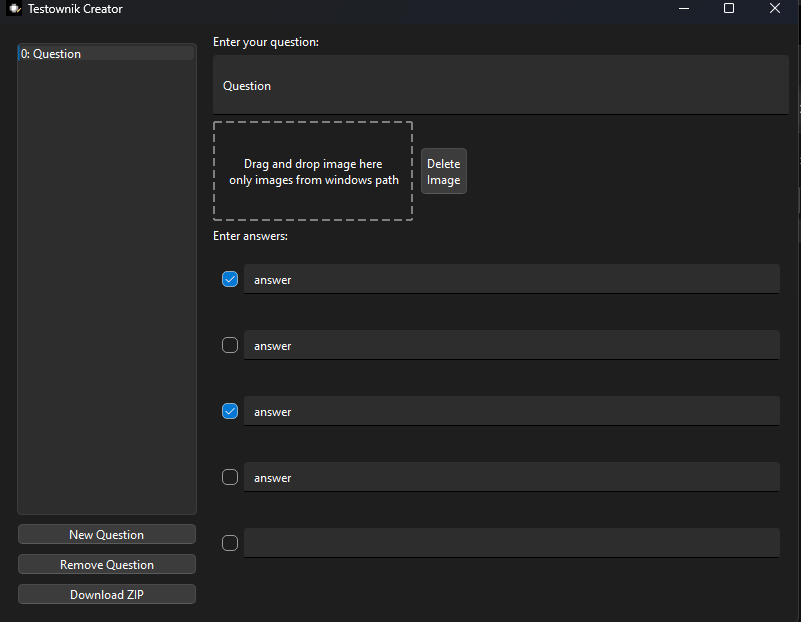
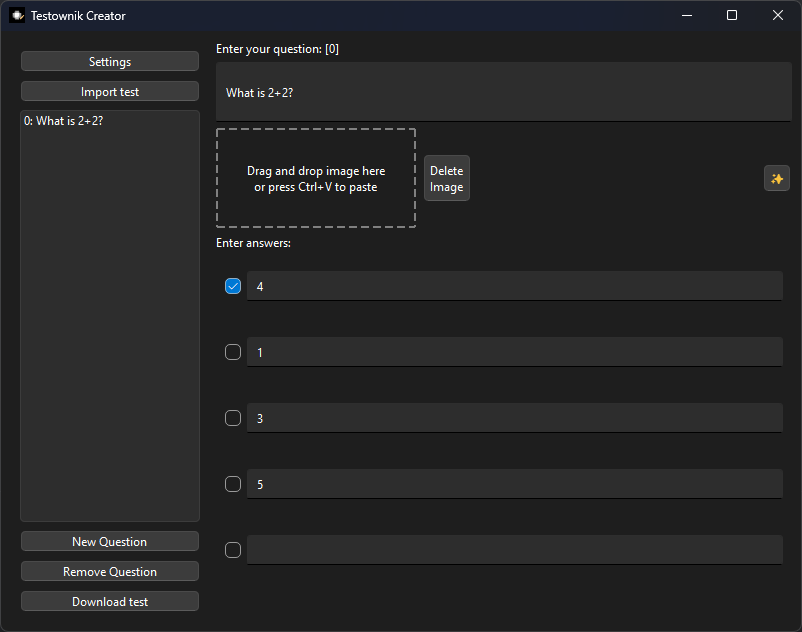
Update readme

diff --git a/README.md b/README.md
@@ -3,10 +3,12 @@
 Question creator app for Testownik
 [https://github.com/kumalg/testownik-electron](https://github.com/kumalg/testownik-electron)
 
-- Exports .zip and .json
+- fully portable
+- exports .zip and .json
 - warns about duplicate questions
 - supports uploading images
 - adds text to images (testownik app doesn't display text by default in these cases)
 - imports tests for modification
+- ai auto fill incorrect answers
 
 ![image](.github/image.png)
